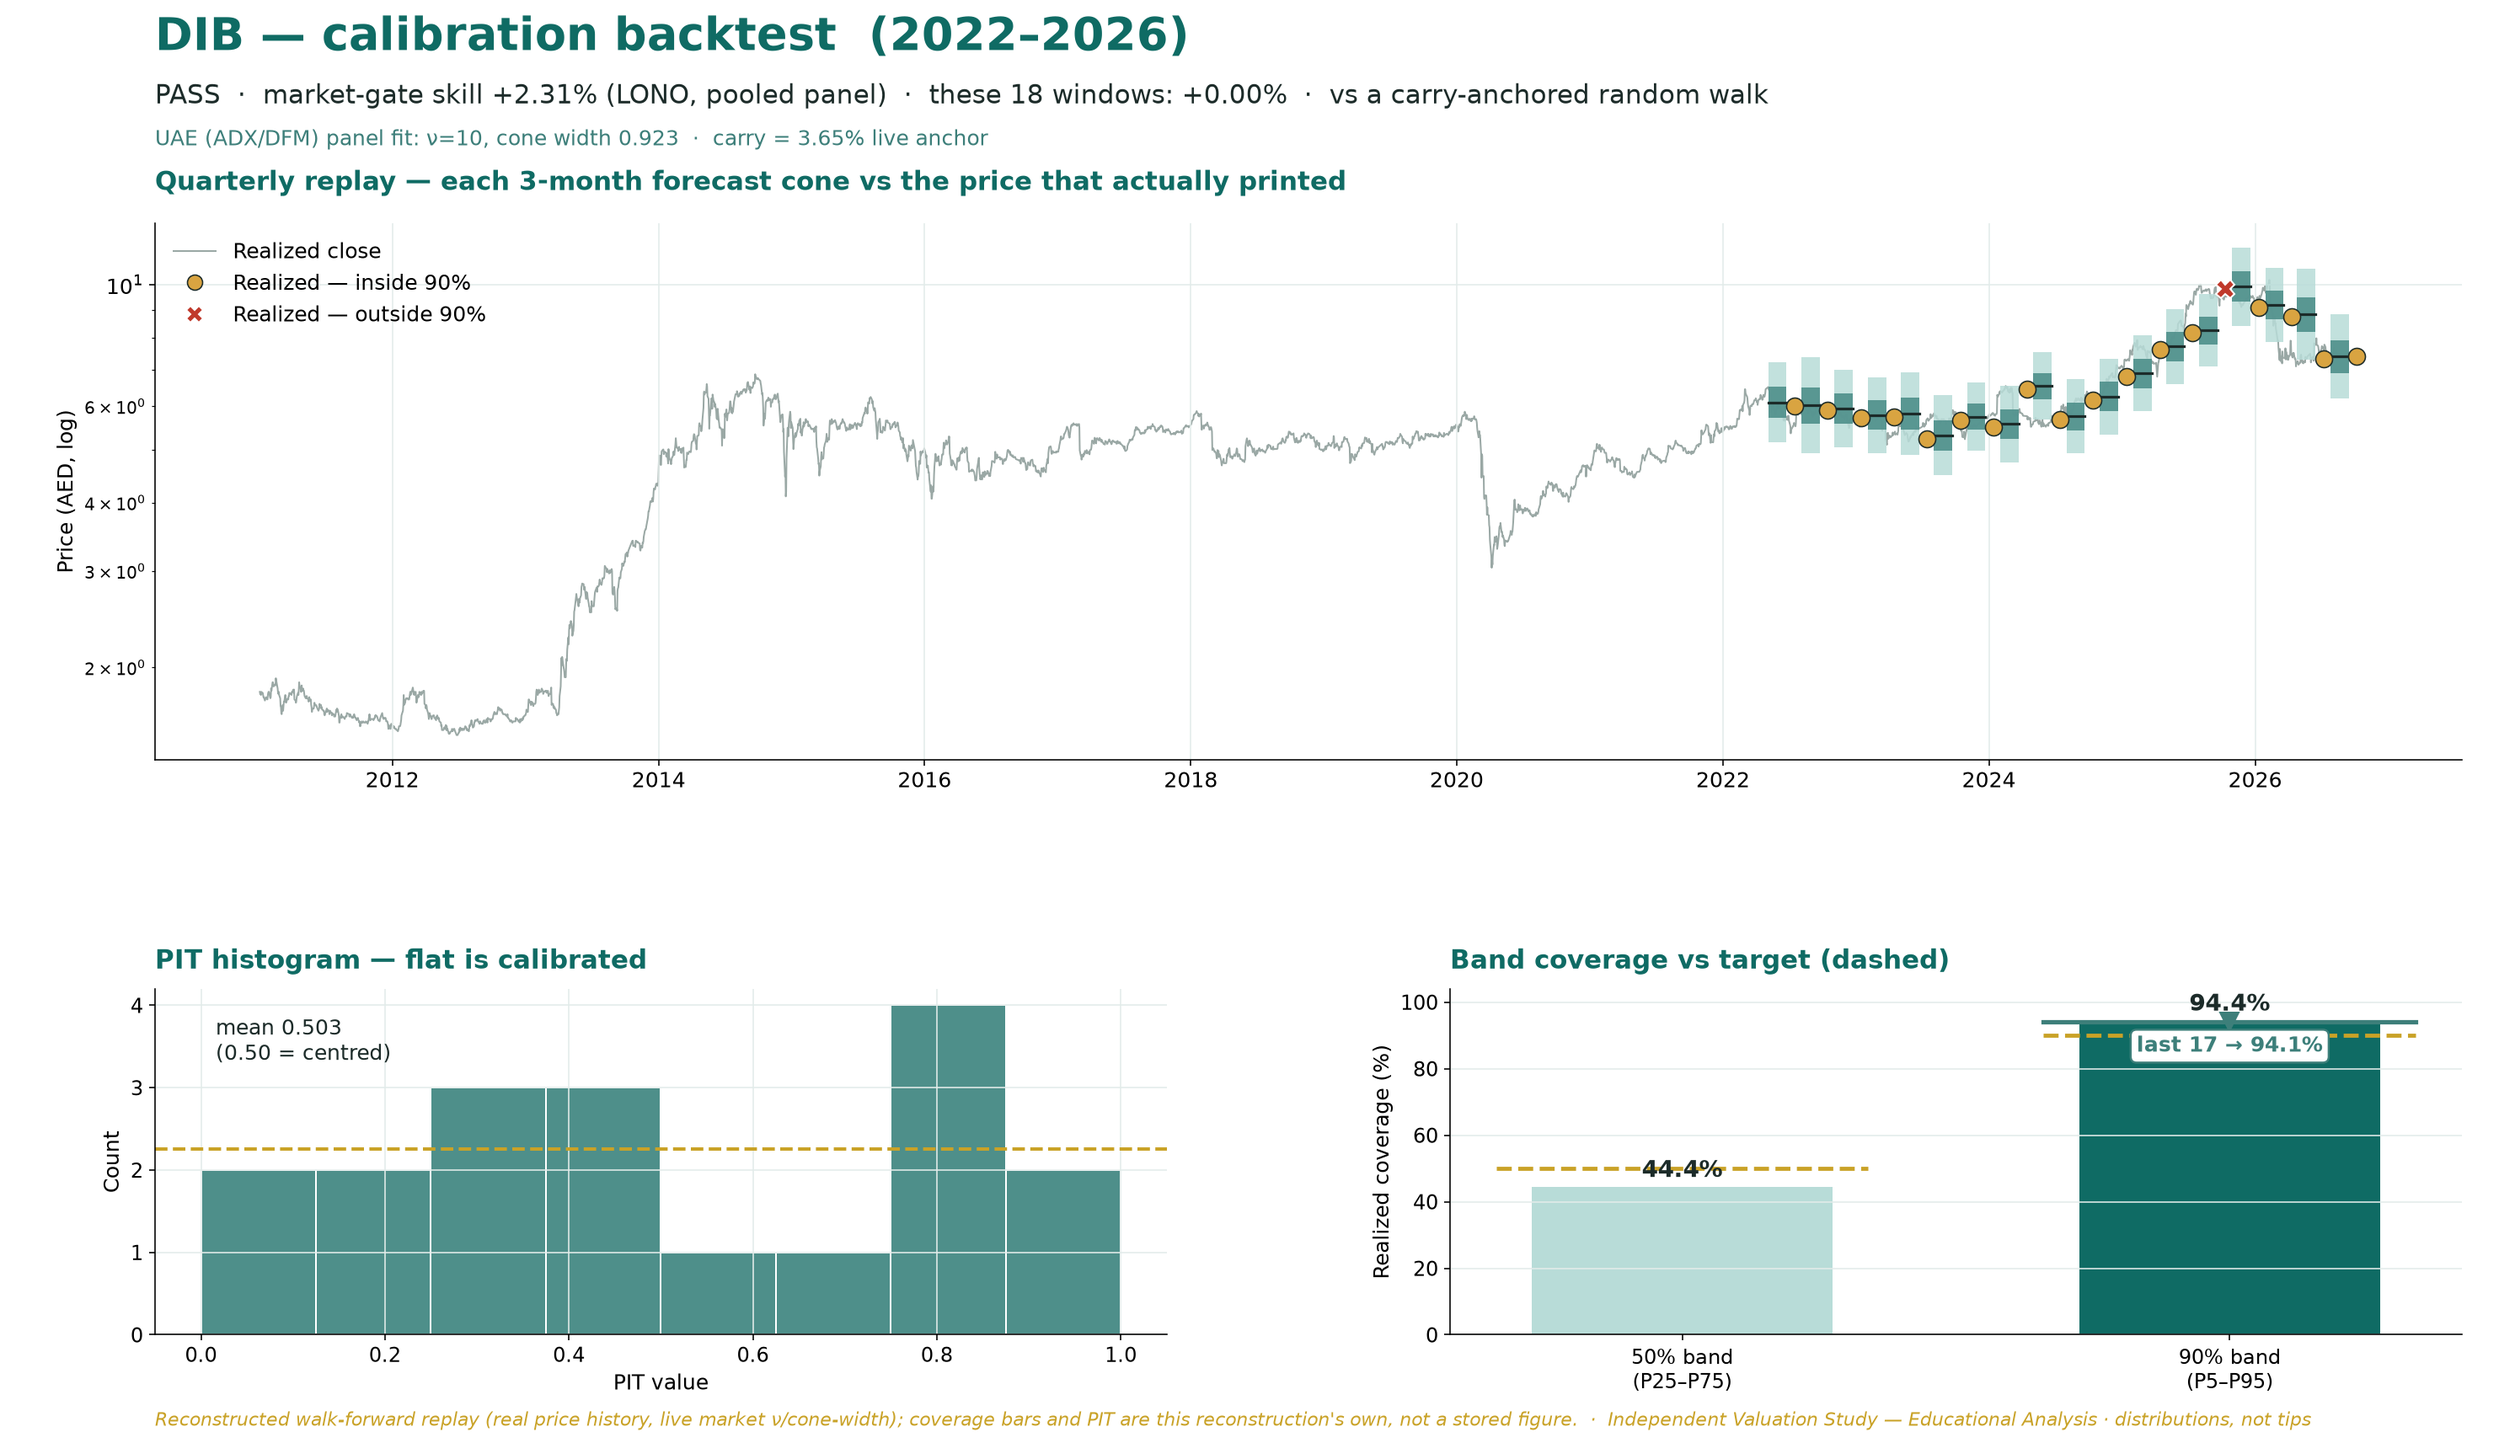
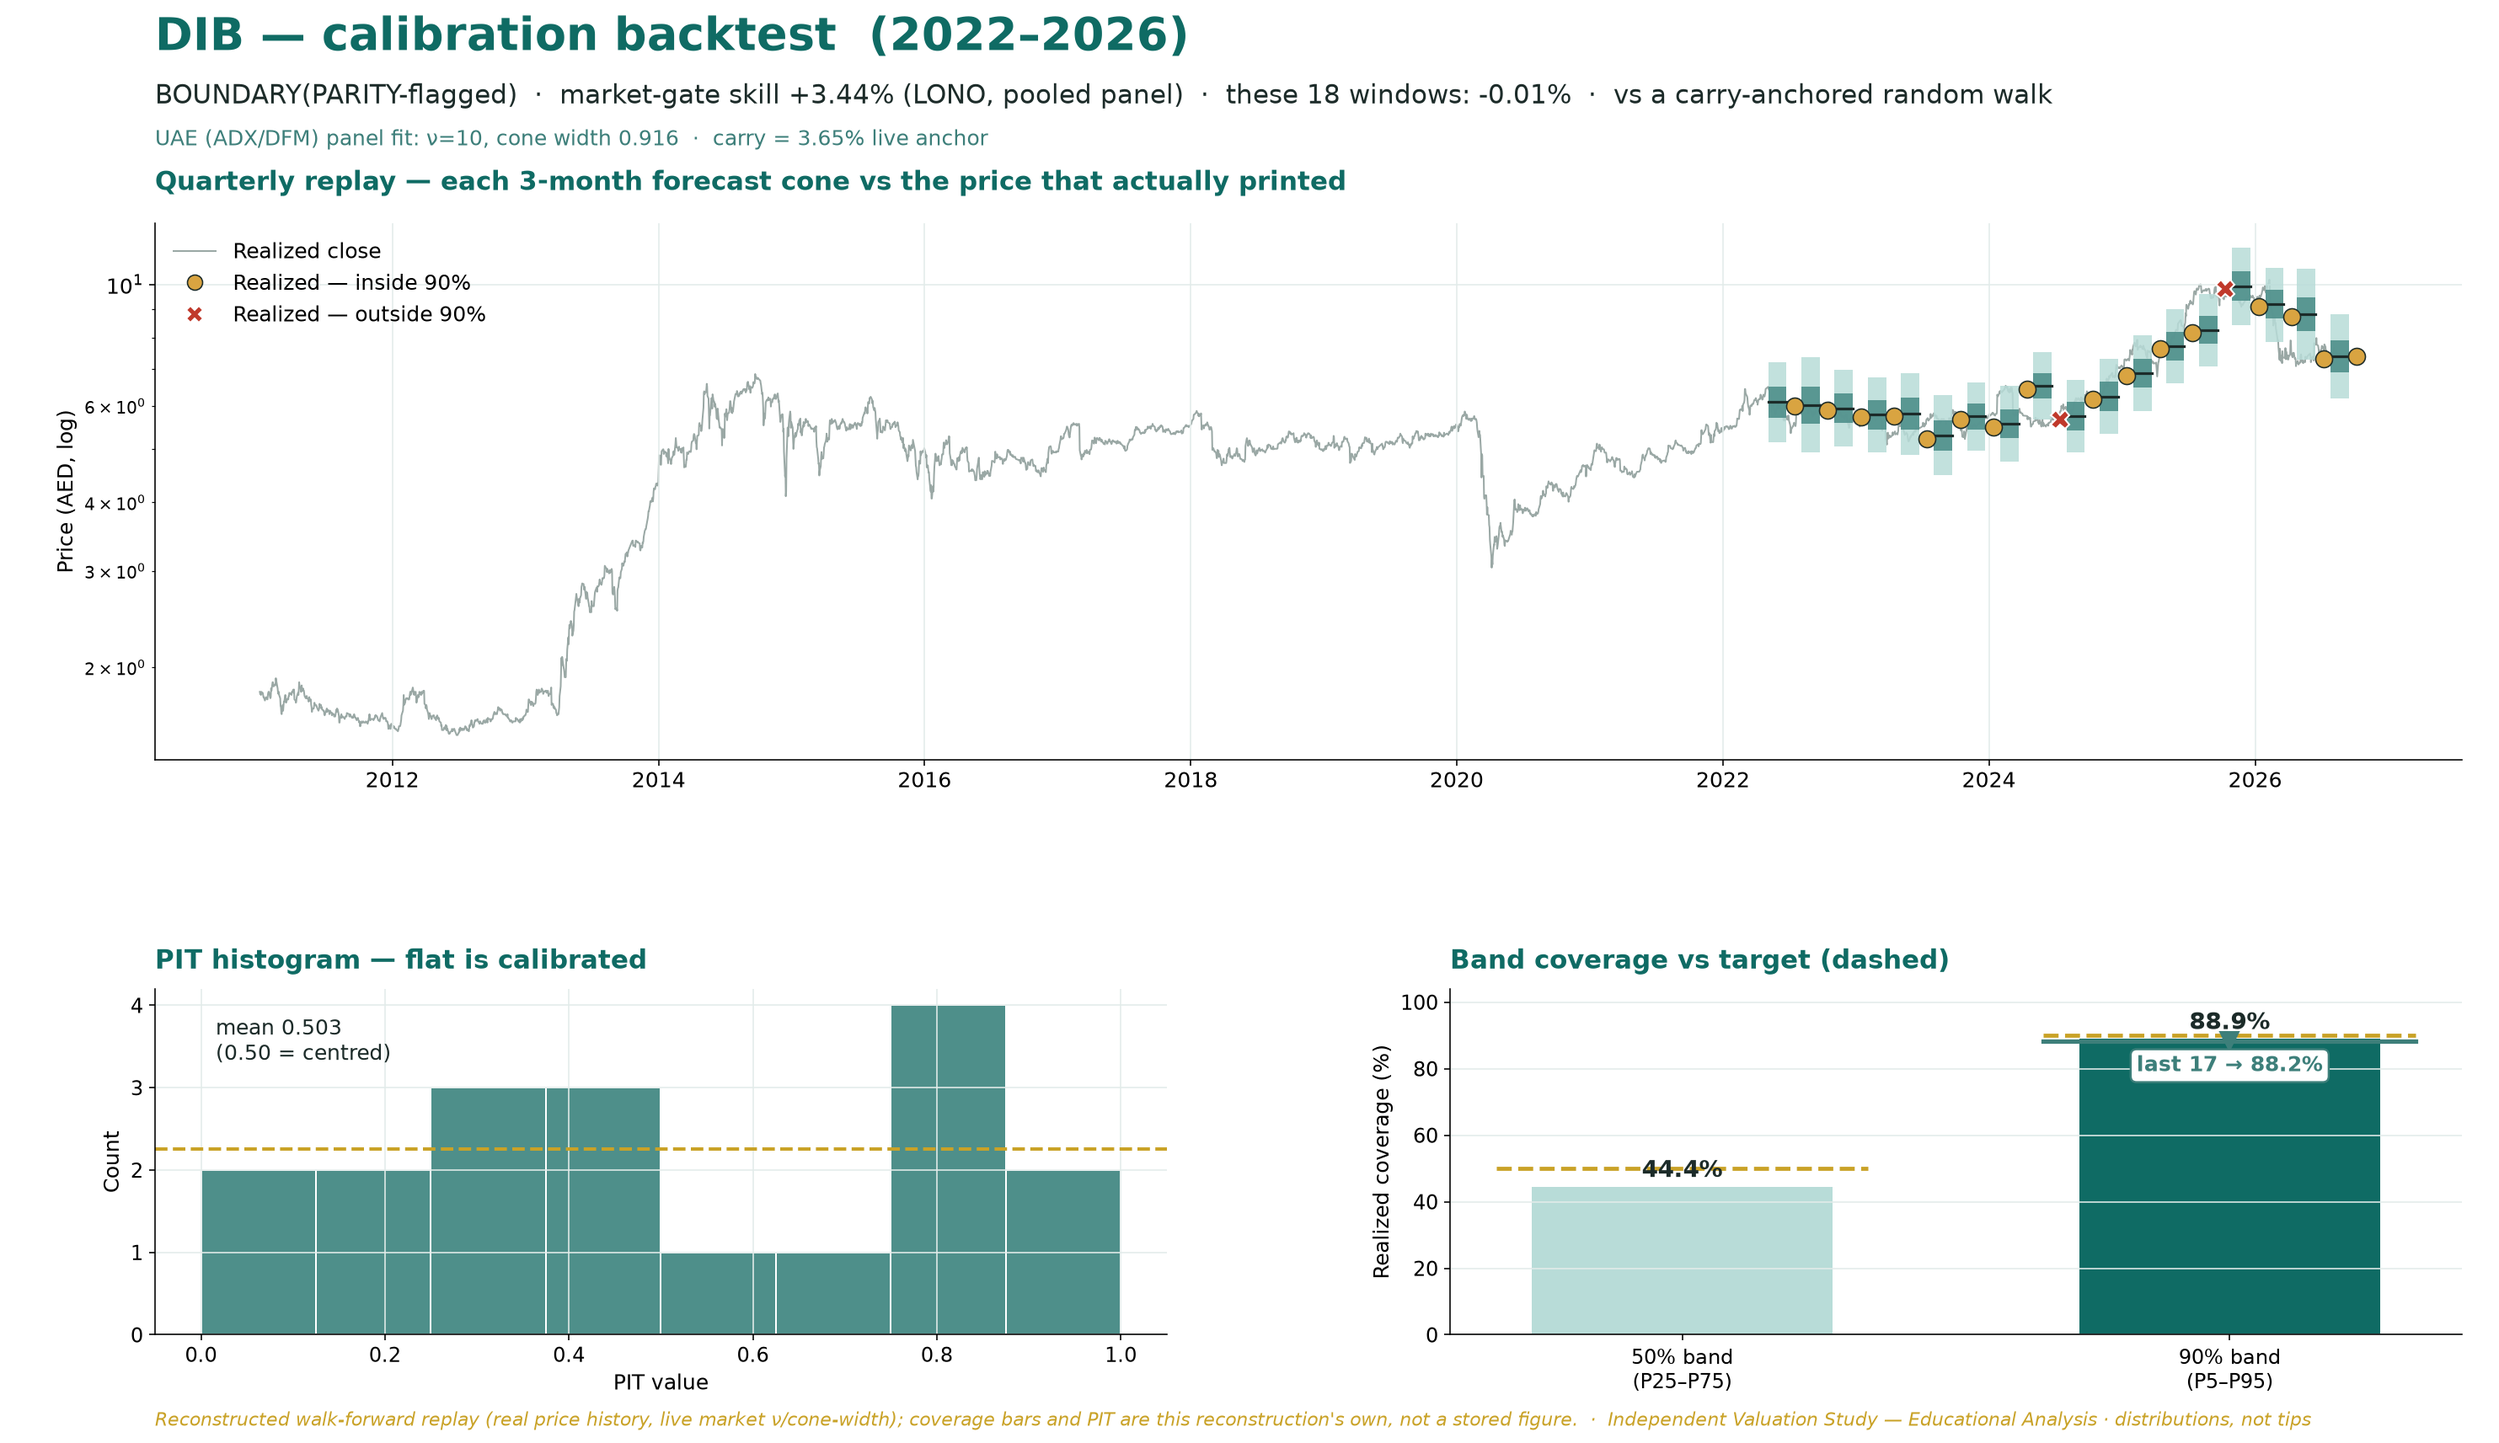
Regenerate the DIB calibration panel against the applied AE verdicts (#248)
* Regenerate the derived surfaces for the DIB republish

* Republish DIB to the website

Surfaces regenerated (sitemap/footer, feed, market registry, chart + technicals); freshness and page-integrity gates clean; verified by headless render.

---------

Changed region(s): [[0.062, 0.0619, 0.8065, 0.0928], [0.8065, 0.6807, 0.9616, 0.7735], [0.8065, 0.2785, 0.8375, 0.3094]]

diff --git a/ledger.html b/ledger.html
@@ -771,11 +771,11 @@ tabPanels.innerHTML = `<div class="tab-panel active" id="panel-all">
   ${cohortChartBlock(t, LEDGER.filter(r=>r.instrument===t))}
   ${CAL_UNTESTED.has(t) ? CALIB_UNTESTED_BANNER + `<h3 style="font-size:var(--fs-h3);margin:24px 0 4px">What this forecast IS validated on</h3>
   <p class="muted" style="margin:0 0 12px;max-width:760px">There is no name-level backtest for this stock — it has not been listed long enough to have one. So instead of a backtest it does not have, here is the evidence it actually rests on: why the test cannot be run, what the market panel behind the cone scored, and where this stock sits relative to that panel. Methodology transparency; it does not count toward the live score above.</p>
-  <div class="card bt-fig"><img alt="${t} — why there is no name-level calibration, what the cone is validated on, and how the UAE market panel scored" src="assets/calibration_${t}.png?v=20260824dewa1"></div>` : ``}
+  <div class="card bt-fig"><img alt="${t} — why there is no name-level calibration, what the cone is validated on, and how the UAE market panel scored" src="assets/calibration_${t}.png?v=20260824dib1"></div>` : ``}
   ${HAS_BACKTEST.has(t) ? `<h3 style="font-size:var(--fs-h3);margin:24px 0 4px">Calibration backtest</h3>
   <p class="muted" style="margin:0 0 12px;max-width:760px">The same model replayed across ${t}’s full usable history — every non-overlapping quarter back to its market’s last structural break. Each quarter’s 3-month forecast cone against the price that actually printed, the PIT histogram (flat = well-calibrated), and how often each band actually held. Where the most recent stretch diverges from the long-run record, the panel says so in red. Methodology validation; it does not count toward the live score above.</p>
   ${CAL_FAIL.has(t) && !BANNER_BAKED.has(t) ? CALIB_FAIL_BANNER : (CAL_MATCH.has(t) ? CALIB_MATCH_BANNER : ``)}
-  <div class="card bt-fig"><img alt="${t} calibration backtest — quarterly cone replay, PIT histogram, and band coverage vs target" src="assets/calibration_${t}.png?v=20260824dewa1"></div>
+  <div class="card bt-fig"><img alt="${t} calibration backtest — quarterly cone replay, PIT histogram, and band coverage vs target" src="assets/calibration_${t}.png?v=20260824dib1"></div>
   <div style="margin:20px 0 8px;padding-top:20px;border-top:1px solid var(--line,#dce4e2)">
     <p class="muted" style="font-size:var(--fs-small);margin:0 0 10px"><b style="color:var(--ink)">Reading this panel:</b></p>
     <div style="display:grid;grid-template-columns:repeat(auto-fit,minmax(220px,1fr));gap:16px">
